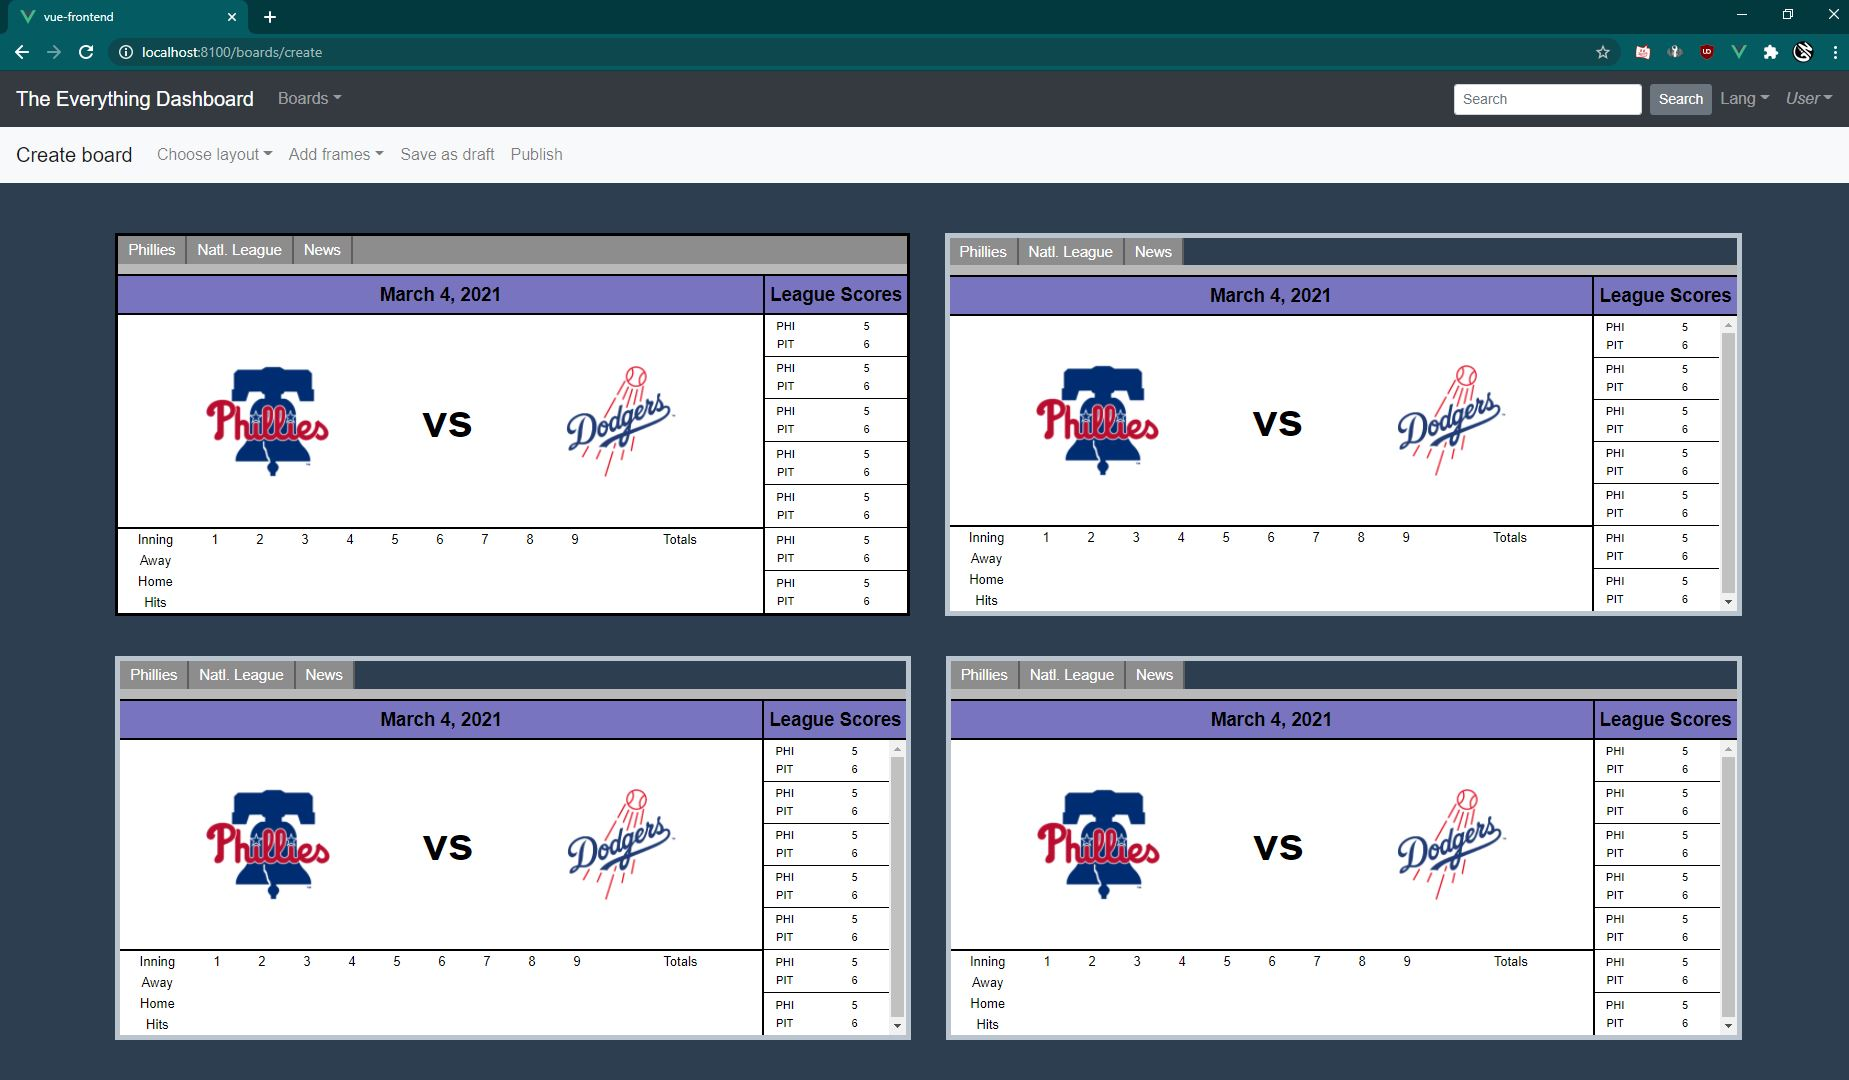
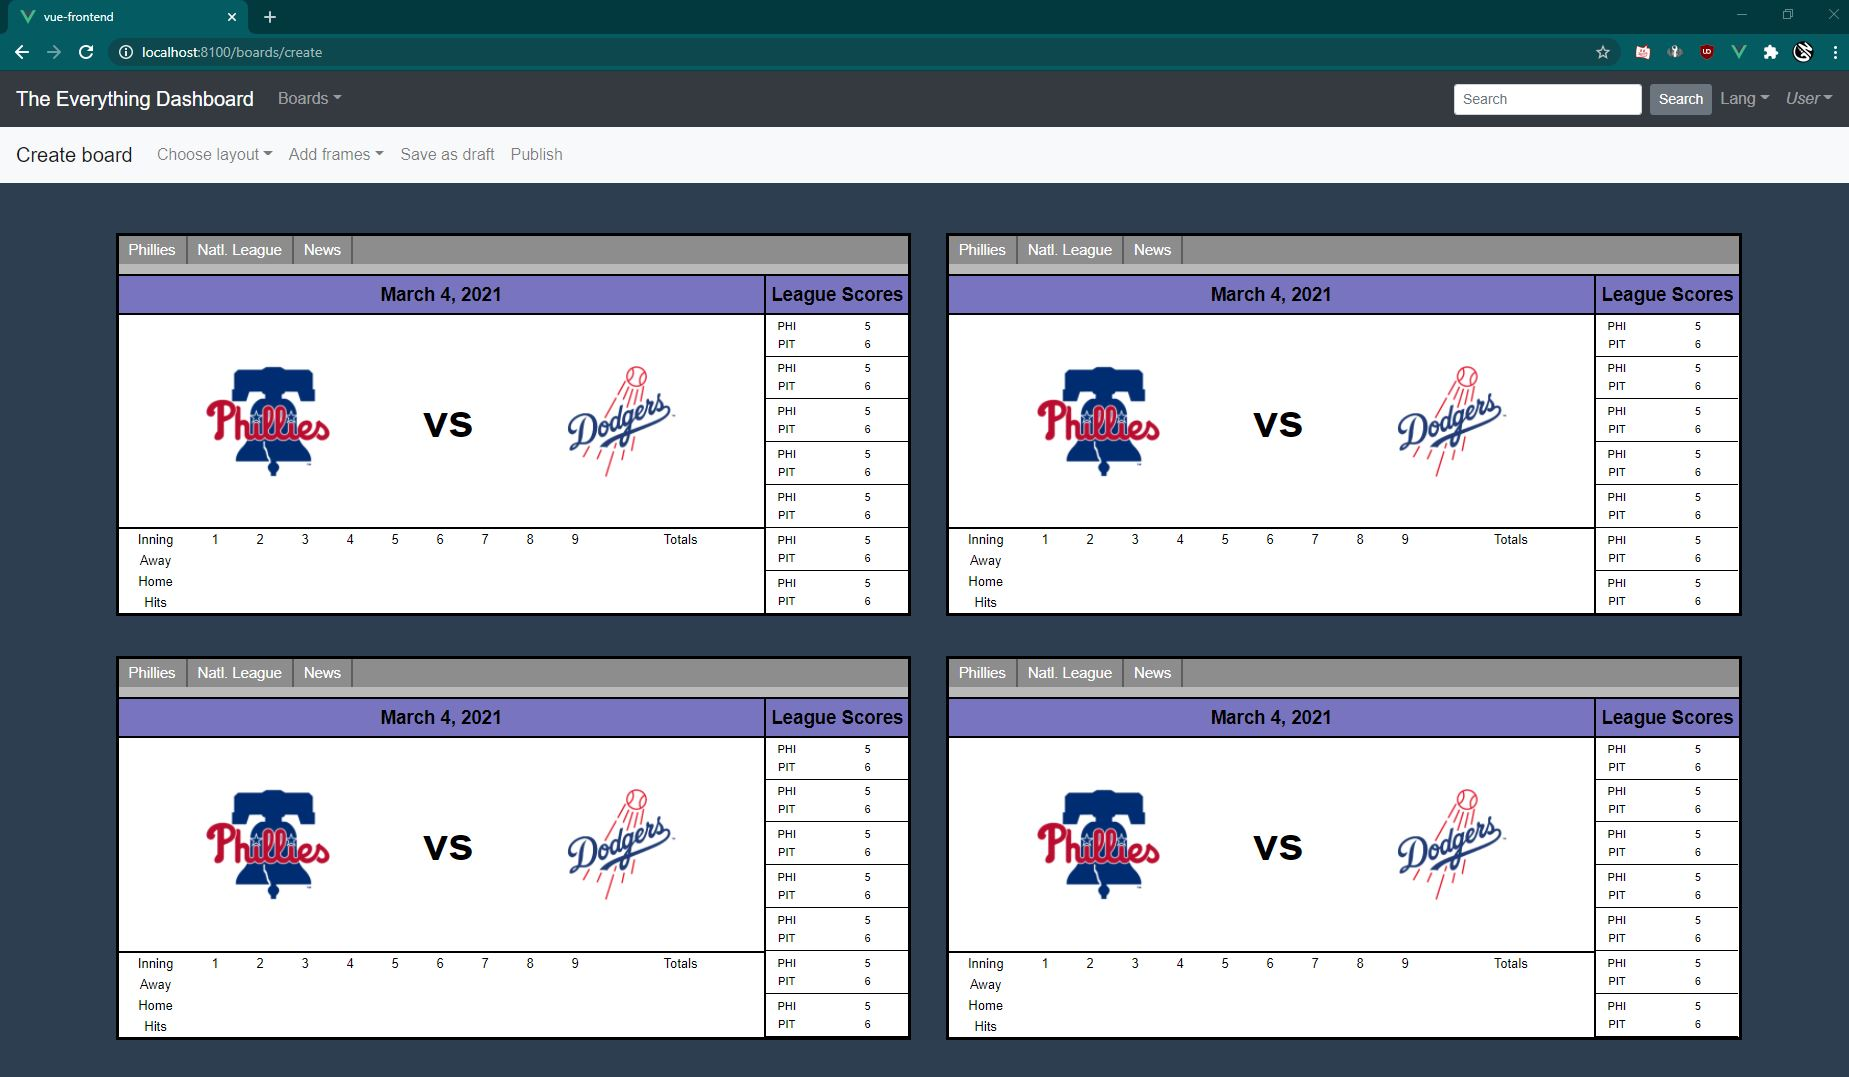
Few changes to styling

diff --git a/vue-frontend/src/components/boards/frames/Baseball/Baseball-Frame.vue b/vue-frontend/src/components/boards/frames/Baseball/Baseball-Frame.vue
@@ -85,168 +85,6 @@
 
 </template>
 
-<style>
-.fcontent-divider{
-  width:2px;
-  background-color:rgb(0, 0, 0);
-}
-.league-scores-outer-td > tr > td{
-  padding-left:10px;
-}
-.league-scores{
-  height:100%;
-  overflow:auto;
-  border:solid 0px blue;
-}
-.league-scores > table{
-  width:100%;
-  color:black;
-  height:100%;
-
-}
-.league-scores > table > tr > td{
-  border-bottom: solid 1px black;
-  font-size: .6vw;
-}
-.row-label{
-  width:4vw;
-}
-.boxscore > table{
-  width:100%;
-  color:black;
-
-}
-.boxscore > table > tr > td{
-  border: solid 0px black;
-  font-size:.7vw;
-}
-.boxscore{
-  display:flex;
-  overflow:auto;
-  border-top:solid 2px rgb(0, 0, 0);
-}
-.team-img{
-  height:11vh;
-}
-.current-game > div {
-  font-size: 2.5em;
-  margin: 0px 5vw 0px 5vw;
-  color:black;
-  font-weight: bold;
-}
-.current-game{
-  border: solid 0px rgb(0, 0, 0);
-  color:white;
-  font-size:1vw;
-  display:flex;
-  flex-flow:row;
-  width:100%;
-  flex-grow: 1;
-  align-items: center;
-  justify-content: center;
-}
-.content-header{
-  border: solid 0px rgb(255, 184, 104);
-  border-top: solid 2px black;
-  border-bottom:solid 2px rgb(0, 0, 0);
-  background-color:rgb(121, 116, 192);
-  font-weight:bold;
-  color:black;
-  font-size:1vw;
-  padding:5px;
-}
-
-.fcontent-1{
-  border: solid 0px rgb(1, 214, 221);
-  display:flex;
-  flex-flow: column;
-  height:100%;
-  background-color: white;
-  flex-grow:1;
-}
-.fcontent-2{
-  border:solid 0px rgb(1, 214, 221);
-  display:flex;
-  flex-flow: column;
-  height:100%;
-  background-color: white;
-  float:right;
-}
-.fcontent-container{
-  border:solid 0px red;
-  display:flex;
-  flex-flow: row;
-  height:90%;
-  background-color: white;
-}
-.frow{
-  height:100%;
-  display:flex;
-  flex-flow: row;
-}
-.ftab{
-  border-right: solid 2px #5e5e5e;
-  display:flex;
-  flex-flow: row;
-  padding:0px 10px 0px 10px;
-  background-color: rgb(141, 141, 141);
-  height:100%;
-  font-size:.8vw;
-  align-items: center;
-  color:white;
-}
-.ftab:hover{
-  background-color: rgb(185, 185, 185);
-  cursor:pointer;
-  color:black;
-}
-.fcontainer{
-  border-bottom:solid 10px rgb(185, 185, 185);
-  height:10%;
-  color:black;
-  align-items: left;
-}
-#q1{
-  border:solid 3px #000000;
-  background-color: rgb(141, 141, 141) ;
-}
-#boxy{
-  border: 5px solid rgb(199, 96, 96);
-}
-#halves-container{
-  display:flex;
-  flex-flow:column;
-  border:solid orange 0px;
-  width:100%;
-}
-
-.halves{
-  border: 0px solid rgb(255, 89, 191);
-  height:200px;
-  display:flex;
-  flex-flow:row;
-  padding-right:-40px;
-  
-}
-.quadrant{
-  border: 5px solid #b9c4cf;
-  padding:0px;
-}
-#quadrant-spacer{
-  width:40px;
-  height:100%;
-}
-#quadrant-spacer-lg{
-  width:200px;
-  height:100%;
-  border:solid 0px red;
-}
-#halves-spacer{
-  width:100%;
-  height:40px;
-}
-
-</style>
 
 <script>
 

diff --git a/vue-frontend/src/components/boards/layouts/Quadrants.vue b/vue-frontend/src/components/boards/layouts/Quadrants.vue
@@ -249,10 +249,6 @@
   color:black;
   align-items: left;
 }
-#q1{
-  border:solid 3px #000000;
-  background-color: rgb(141, 141, 141) ;
-}
 #boxy{
   border: 5px solid rgb(199, 96, 96);
 }
@@ -272,8 +268,9 @@
   
 }
 .quadrant{
-  border: 5px solid #b9c4cf;
+  border: 3px solid #000000;
   padding:0px;
+  background-color: rgb(141, 141, 141) ;
 }
 #quadrant-spacer{
   width:40px;
